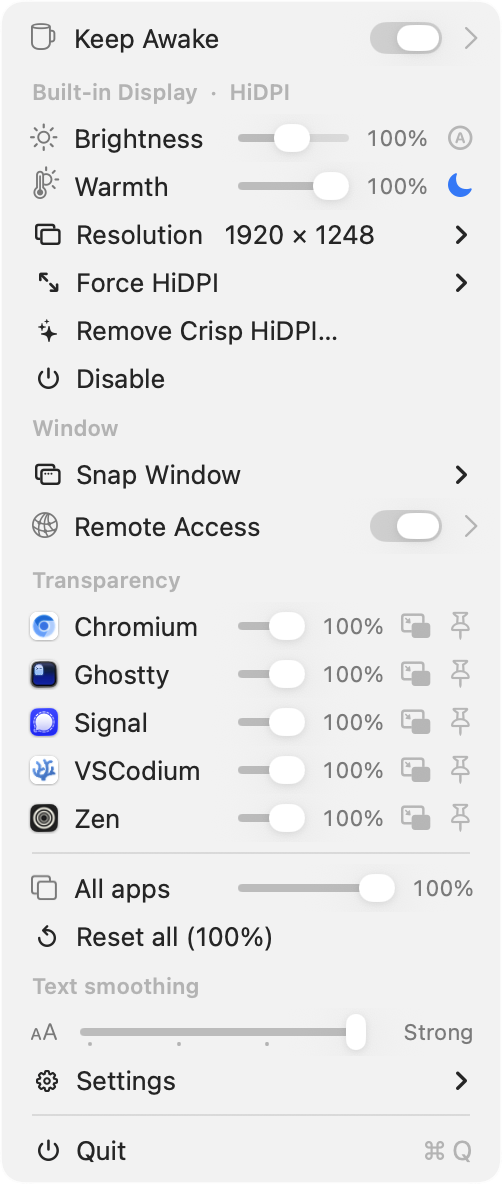
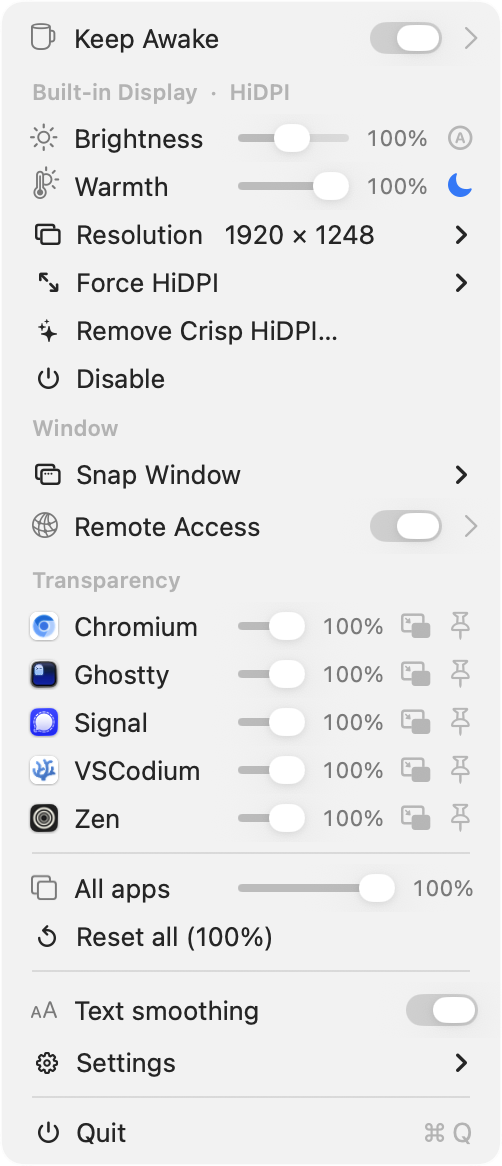
v2.4.3: Text smoothing becomes On/Off toggle (macOS treats AppleFontSmoothing as binary; verified by pixel-diff)

diff --git a/docs/index.html b/docs/index.html
@@ -294,7 +294,7 @@
       <div class="feat"><span class="tag">WINDOWS</span><h3>Transparency, float &amp; PiP</h3><p>Set any app's opacity, add frosted-glass blur, keep a window on top, or shrink one into a still-usable floating corner.</p></div>
       <div class="feat"><span class="tag">REMOTE</span><h3>Remote access</h3><p>Reach this Mac — and your other Macs — from anywhere, nothing to install. An auto-reconnecting reverse-SSH tunnel through a relay you control forwards SSH and Screen Sharing; peers are auto-discovered, so you can Screen Share or SSH into them from the menu.</p></div>
       <div class="feat"><span class="tag">POWER</span><h3>Keep awake</h3><p>An IOKit caffeine assertion so your Mac and its display won't sleep — indefinitely (a toggle), or for a duration you pick. Left-click the mug to toggle.</p></div>
-      <div class="feat"><span class="tag">TEXT</span><h3>Text smoothing</h3><p>Tune macOS's grayscale antialiasing (Off → Strong) so text isn't thin or fuzzy on external, non-Retina, or scaled monitors.</p></div>
+      <div class="feat"><span class="tag">TEXT</span><h3>Text smoothing</h3><p>Toggle macOS's grayscale antialiasing on/off so text isn't thin or fuzzy on external, non-Retina, or scaled monitors. A single switch — macOS treats font smoothing as binary.</p></div>
     </div>
   </div>
 </section>

diff --git a/src/app/AppDelegate.m b/src/app/AppDelegate.m
@@ -31,17 +31,6 @@ static const CGFloat kModeTabRate = 184;
 static const CGFloat kSliderRowWidth = 150;
 static const NSInteger kSliderItemTag = 0x51D5;
 static const void *kDDPctLabelKey = &kDDPctLabelKey;
-static const void *kDDFontLabelKey = &kDDFontLabelKey;
-
-// Text-smoothing levels map 1:1 onto AppleFontSmoothing 0–3 (3 = macOS ceiling).
-static NSString *ddFontSmoothingName(NSInteger level) {
-    switch (level) {
-        case 0:  return @"Off";
-        case 1:  return @"Light";
-        case 3:  return @"Strong";
-        default: return @"Medium";
-    }
-}
 
 static NSString *ddRateString(double hz, NSString *fallback) {
     return hz > 0 ? [NSString stringWithFormat:@"%.0fHz", hz] : fallback;
@@ -345,8 +334,11 @@ static NSAttributedString *ddColumns(NSArray<NSString *> *cols, NSArray<NSNumber
     [menu addItem:[NSMenuItem sectionHeaderWithTitle:@"Transparency"]];
     [self addTransparencySectionToMenu:menu];
 
-    [menu addItem:[NSMenuItem sectionHeaderWithTitle:@"Text smoothing"]];
-    [menu addItem:[self fontSmoothingRowItem]];
+    [menu addItem:[NSMenuItem separatorItem]];
+    // Absent key = macOS default (smoothing on) → toggle reads as On unless explicitly 0.
+    [menu addItem:[self switchRow:@"Text smoothing" icon:@"textformat.size"
+                               on:([self currentFontSmoothing] != 0)
+                           action:@selector(fontSmoothingToggled:) width:kSliderRowWidth]];
 
     NSMenuItem *settingsItem = [[NSMenuItem alloc]
         initWithTitle:@"Settings" action:nil keyEquivalent:@""];
@@ -1219,69 +1211,12 @@ static NSAttributedString *ddColumns(NSArray<NSString *> *cols, NSArray<NSNumber
                              kCFPreferencesCurrentUser, kCFPreferencesCurrentHost);
 }
 
-- (void)fontSmoothingSliderChanged:(NSSlider *)sender {
-    NSInteger level = (NSInteger)lround(sender.doubleValue);   // snaps to 0…3
-    NSTextField *value = objc_getAssociatedObject(sender, kDDFontLabelKey);
-    value.stringValue = ddFontSmoothingName(level);
-    [self applyFontSmoothing:level];
-}
-
-// Discrete slider under the "Text smoothing" header — same icon + slider + value
-// layout as the Brightness/Warmth rows, so it reads as one interactive control
-// instead of four spelled-out segments. Snaps Off · Light · Medium · Strong
-// (AppleFontSmoothing 0–3; 3 is the macOS ceiling), with the level name as the
-// live value label.
-- (NSMenuItem *)fontSmoothingRowItem {
-    NSView *row = [[NSView alloc] initWithFrame:NSMakeRect(0, 0, kSliderRowWidth, 24)];
-
-    NSImageView *iconView = [NSImageView imageViewWithImage:ddSymbol(@"textformat.size")];
-    iconView.imageScaling = NSImageScaleProportionallyDown;
-    iconView.translatesAutoresizingMaskIntoConstraints = NO;
-    [row addSubview:iconView];
-
-    // Absent key = macOS default → show Medium so the current level is always visible.
-    NSInteger cur = [self currentFontSmoothing];
-    if (cur < 0 || cur > 3) cur = 2;
-
-    NSSlider *slider = [NSSlider sliderWithValue:cur minValue:0 maxValue:3
-                                          target:self
-                                          action:@selector(fontSmoothingSliderChanged:)];
-    slider.numberOfTickMarks = 4;
-    slider.allowsTickMarkValuesOnly = YES;   // snap to Off/Light/Medium/Strong
-    slider.continuous = YES;
-    slider.controlSize = NSControlSizeSmall;
-    slider.toolTip = @"Log out and back in for the change to take effect";
-    slider.translatesAutoresizingMaskIntoConstraints = NO;
-    [row addSubview:slider];
-
-    NSTextField *value = [NSTextField labelWithString:ddFontSmoothingName(cur)];
-    value.font = [NSFont menuFontOfSize:11];
-    value.textColor = [NSColor secondaryLabelColor];
-    value.alignment = NSTextAlignmentRight;
-    value.translatesAutoresizingMaskIntoConstraints = NO;
-    [value setContentHuggingPriority:NSLayoutPriorityRequired
-                      forOrientation:NSLayoutConstraintOrientationHorizontal];
-    [row addSubview:value];
-    objc_setAssociatedObject(slider, kDDFontLabelKey, value, OBJC_ASSOCIATION_ASSIGN);
-
-    [NSLayoutConstraint activateConstraints:@[
-        [row.heightAnchor constraintEqualToConstant:24],
-        [iconView.leadingAnchor constraintEqualToAnchor:row.leadingAnchor constant:14],
-        [iconView.centerYAnchor constraintEqualToAnchor:row.centerYAnchor],
-        [iconView.widthAnchor constraintEqualToConstant:16],
-        [iconView.heightAnchor constraintEqualToConstant:16],
-        [slider.leadingAnchor constraintEqualToAnchor:iconView.trailingAnchor constant:10],
-        [slider.centerYAnchor constraintEqualToAnchor:row.centerYAnchor],
-        [value.leadingAnchor constraintEqualToAnchor:slider.trailingAnchor constant:8],
-        [value.trailingAnchor constraintEqualToAnchor:row.trailingAnchor constant:-14],
-        [value.centerYAnchor constraintEqualToAnchor:row.centerYAnchor],
-        [value.widthAnchor constraintGreaterThanOrEqualToConstant:46],
-    ]];
-
-    NSMenuItem *item = [[NSMenuItem alloc] init];
-    item.tag = kSliderItemTag;   // sized to the menu width like the slider rows
-    item.view = row;
-    return item;
+// Text smoothing is an On/Off setting on modern macOS, not a gradient: pixel-diffing
+// rendered text shows AppleFontSmoothing 1/2/3 are byte-identical — only 0 (off) vs
+// on actually changes glyphs. So this is a single toggle. On writes the standard
+// level (2); Off writes 0. (Apps read it at launch, so it applies after a re-login.)
+- (void)fontSmoothingToggled:(NSSwitch *)sw {
+    [self applyFontSmoothing:(sw.state == NSControlStateValueOn) ? 2 : 0];
 }
 
 - (NSArray<DDDisplayMode *> *)curatedModes:(NSArray<DDDisplayMode *> *)modes

diff --git a/CHANGELOG.md b/CHANGELOG.md
@@ -2,6 +2,11 @@
 
 All notable changes to DisplayDeck are documented here. Format follows [Keep a Changelog](https://keepachangelog.com); versions follow [SemVer](https://semver.org).
 
+## [2.4.3] — 2026-06-18
+
+### Changed
+- **Text smoothing is now a simple On/Off toggle** instead of a multi-level control. Pixel-diffing rendered text confirmed that modern macOS treats `AppleFontSmoothing` as binary: levels Light/Medium/Strong come out **byte-identical** — only **Off vs On** actually changes how glyphs are drawn (off = thinner/lighter, on = dilated). The old strength gradient was removed by macOS years ago, so a slider implied distinctions that don't exist. On writes the standard level; Off disables smoothing. (Still applies after a re-login, since apps read it at launch.)
+
 ## [2.4.2] — 2026-06-18
 
 ### Changed
@@ -105,6 +110,7 @@ All notable changes to DisplayDeck are documented here. Format follows [Keep a C
 ### Added
 - Initial release: disable/enable any display, Force HiDPI via a mirrored virtual display, brightness control, and keep-awake.
 
+[2.4.3]: https://github.com/oabdrabo/DisplayDeck/releases/tag/v2.4.3
 [2.4.2]: https://github.com/oabdrabo/DisplayDeck/releases/tag/v2.4.2
 [2.4.1]: https://github.com/oabdrabo/DisplayDeck/releases/tag/v2.4.1
 [2.4.0]: https://github.com/oabdrabo/DisplayDeck/releases/tag/v2.4.0

diff --git a/README.md b/README.md
@@ -7,7 +7,7 @@
 
 Disable & enable screens · Force HiDPI · brightness with EDR boost · color warmth (with auto-night) · window tiling/snapping · transparency, blur, keep-on-top & picture-in-picture · keep-awake · remote access.
 
-[![Release](https://img.shields.io/badge/release-v2.4.2-2ea44f?style=flat-square)](https://github.com/oabdrabo/DisplayDeck/releases/latest)
+[![Release](https://img.shields.io/badge/release-v2.4.3-2ea44f?style=flat-square)](https://github.com/oabdrabo/DisplayDeck/releases/latest)
 [![License](https://img.shields.io/badge/license-MIT-3da639?style=flat-square)](LICENSE)
 [![Platform](https://img.shields.io/badge/macOS-14%2B-000?style=flat-square&logo=apple&logoColor=white)](#-requirements)
 [![Apple Silicon](https://img.shields.io/badge/Apple_Silicon-555?style=flat-square)](#-requirements)
@@ -39,7 +39,7 @@ Disable & enable screens · Force HiDPI · brightness with EDR boost · color wa
 | 🪟 **Window transparency** | Set per-app or all-window opacity for **any** app, via a self-contained scripting addition injected into Dock (no external tools). Optional **frosted-glass blur**, per-app **Keep on top**, and **Picture-in-Picture** (shrink a window into a still-usable floating corner). |
 | ☕ **Keep awake** | An IOKit caffeine assertion so the Mac and its display don't sleep — indefinitely (toggle) or for a set duration (15 min → 5 h). Replaces KeepingYouAwake. |
 | 🌐 **Remote access** | Reach this Mac — and your **other Macs** — from anywhere, with **nothing to install**. An auto-reconnecting **reverse-SSH** tunnel through a relay host *you* control forwards **SSH** and **Screen Sharing**; no Tailscale/Headscale or third-party agent. Doubles as a **client**: peers on the same relay are **auto-discovered**, so you can Screen Share or SSH into them from the menu. |
-| 🔤 **Text smoothing** | Adjust macOS's grayscale antialiasing (Off → Strong) so text isn't thin or fuzzy on external, non-Retina, or scaled monitors. Global; applies after a re-login. |
+| 🔤 **Text smoothing** | Toggle macOS's grayscale antialiasing **on/off** so text isn't thin or fuzzy on external, non-Retina, or scaled monitors. (macOS treats `AppleFontSmoothing` as binary — the old strength levels render identically — so this is a single switch.) Global; applies after a re-login. |
 
 The menu-bar icon is an interactive **coffee mug**: left-click toggles keep-awake (filled cup = awake), right-click opens the menu.
 